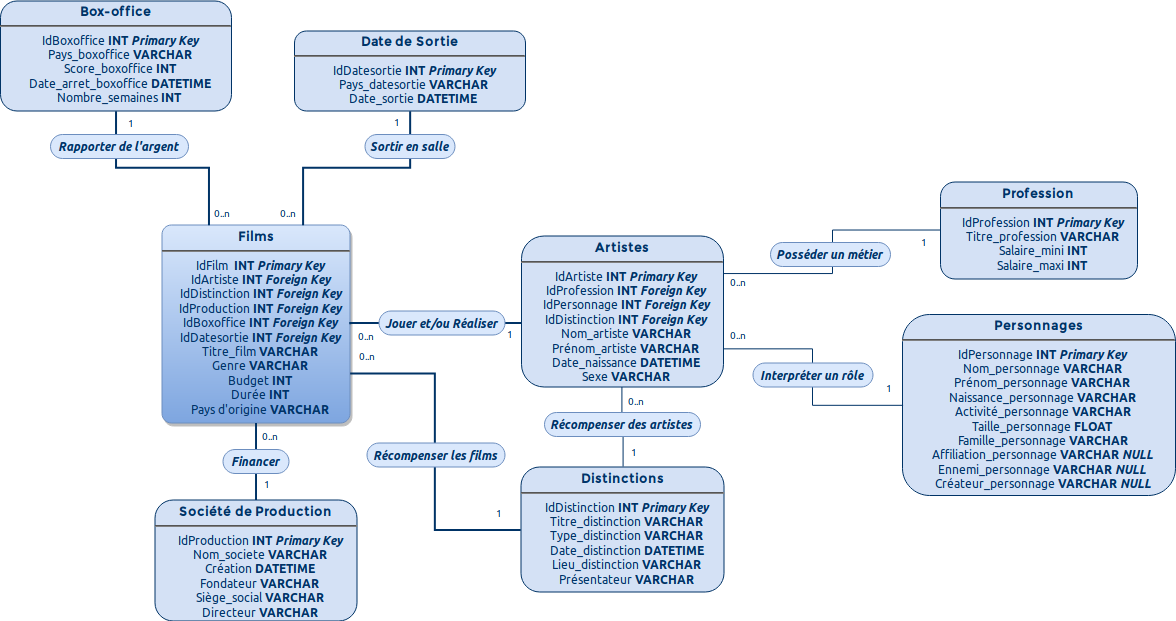
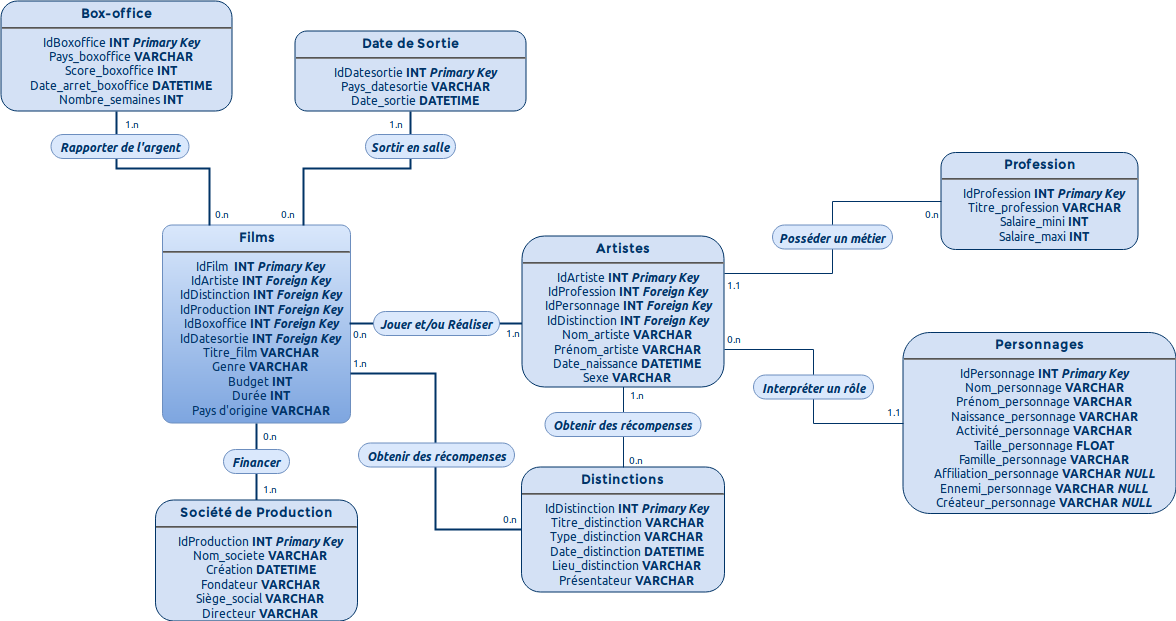
31/01/2019
Ajout des relations 0.1, 1.1, etc.

diff --git a/README.md b/README.md
@@ -3,9 +3,9 @@ Ce projet consiste en la création d'une base de données **SQL** sur les films.
 
 ## Auteurs
 **Bordeaux Ynov Campus Informatique**
-*   Thibault **FEUGÈRE** - B1 A - [flamingfurry](https://github.com/flamingfurry)
-*   Rémi **FEYDIT** - B1 A - [RemiFeydit](https://github.com/RemiFeydit)
-*   Yann **LE COZ** - B1 B - [Zocel](https://github.com/Zocel)
+*   **FEUGÈRE Thibault** - B1 A - [flamingfurry](https://github.com/flamingfurry)
+*   **FEYDIT Rémi** - B1 A - [RemiFeydit](https://github.com/RemiFeydit)
+*   **LE COZ Yann** - B1 B - [Zocel](https://github.com/Zocel)
 
 ## Diagramme UML
 ![](https://raw.githubusercontent.com/Zocel/MovieDatabase/UML-Diagram/Diagramme%20UML%20MovieDatabase.png)
